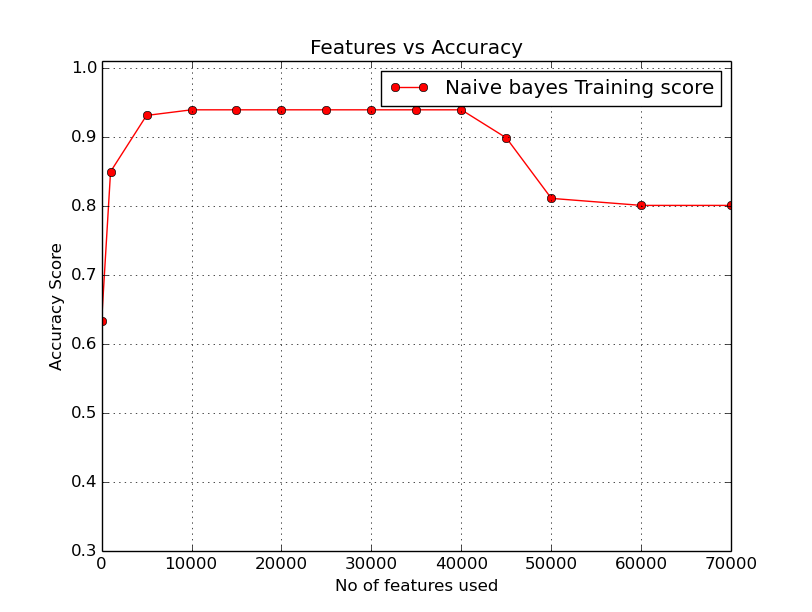
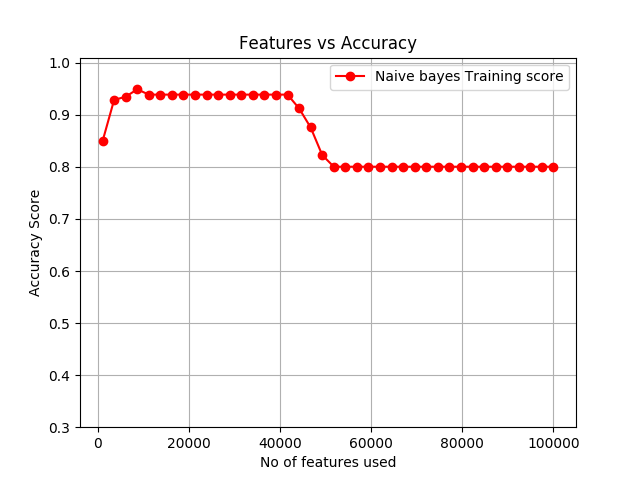
added modified graph of naive bayes features added np.linspace function in sentiment_analysis_old.py

diff --git a/sentiment_analysis_old.py b/sentiment_analysis_old.py
@@ -176,8 +176,12 @@ def plot_accuracy_curve(accuracy,numbers_to_test):
 
 
 #numbers of features to select
-numbers_to_test = [10, 1000, 5000, 10000 , 15000, 20000, 25000, 30000, 35000, 40000, 45000, 50000, 60000, 70000]
+#numbers_to_test = [10, 1000, 5000, 10000 , 15000, 20000, 25000, 30000, 35000, 40000, 45000, 50000, 60000, 70000]
+numbers_to_test = np.linspace(1000, 100000, 40)
+#print numbers_to_test
 #tries the best_word_features mechanism with each of the numbers_to_test of features
+numbers_to_test = numbers_to_test.astype(int)
+#print numbers_to_test
 accuracy_rates = []
 for num in numbers_to_test:
 	print 'evaluating best %d word features' % (num)
@@ -185,7 +189,7 @@ for num in numbers_to_test:
         accuracy = evaluate_features(best_word_features)
         accuracy_rates.append(accuracy)
         
-print accuracy_rates
+#print accuracy_rates
 
 plot_accuracy_curve(accuracy_rates, numbers_to_test)
 plt.show()

diff --git a/sent_analysis_copy.py b/sent_analysis_copy.py
@@ -1,12 +1,12 @@
 import collections
 import nltk
 import csv
+import itertools
+import random
 import nltk.classify.util, nltk.metrics
 from sklearn import cross_validation
 from sklearn.svm import LinearSVC, SVC
-import random
 from nltk.corpus import stopwords
-import itertools
 from nltk.collocations import BigramCollocationFinder
 from nltk.collocations import TrigramCollocationFinder
 from nltk.metrics import BigramAssocMeasures

diff --git a/sentiment_analysis.py b/sentiment_analysis.py
@@ -3,7 +3,6 @@ import nltk, nltk.classify.util, nltk.metrics
 from nltk.classify import NaiveBayesClassifier
 from nltk.metrics import BigramAssocMeasures
 from nltk.probability import FreqDist, ConditionalFreqDist
-
 from nltk import precision
 #from nltk.metrics import precision
 #from nltk.metrics.scores import          (accuracy, precision, recall, f_measure,
